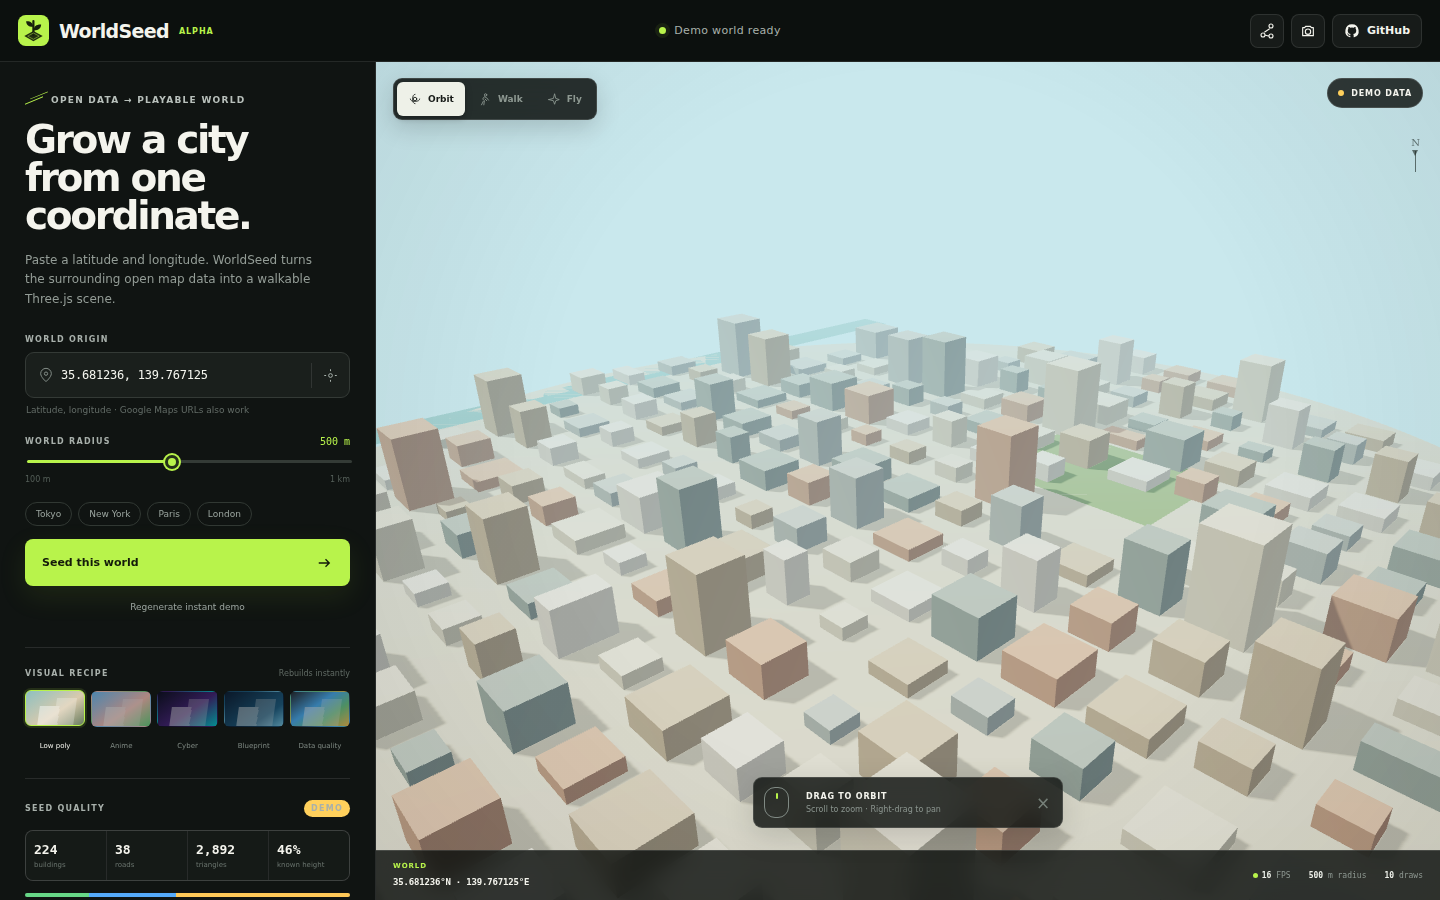
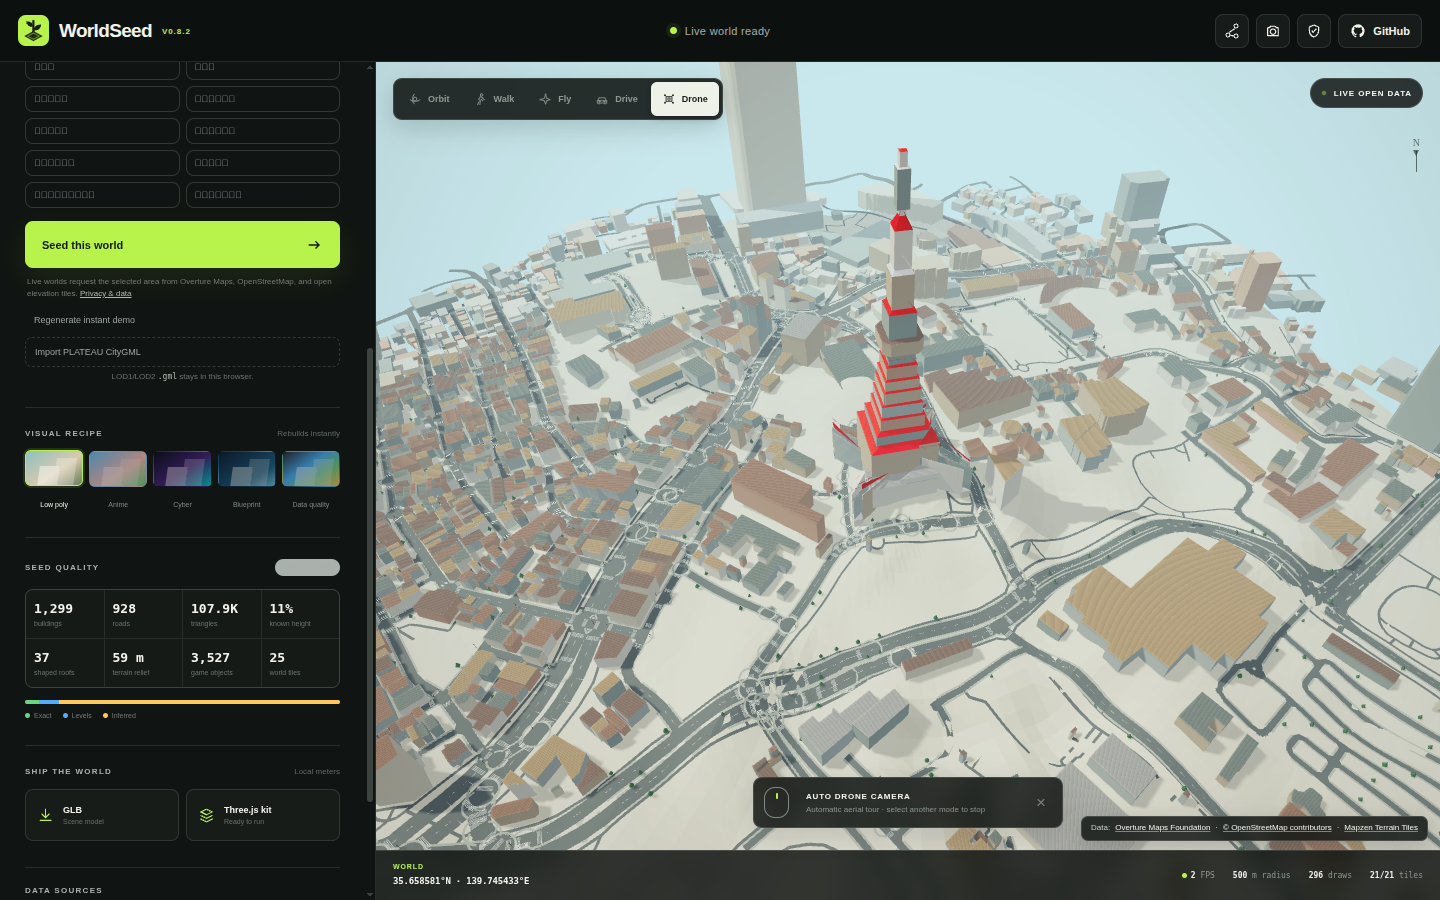
Use live Tokyo Tower capture in README
Replace the synthetic preview with a real production WebGL capture of the Tokyo Tower preset and label it as a live open-geospatial-data render.

diff --git a/README.md b/README.md
@@ -31,7 +31,9 @@ WorldSeed is an open-source bridge between public geospatial data and interactiv
 
 See [docs/REUSE.md](docs/REUSE.md) for concrete integration paths and export-file responsibilities.
 
-![WorldSeed generating a playable low-poly city](docs/worldseed-preview.png)
+![WorldSeed live Tokyo Tower world generated from open geospatial data](docs/worldseed-preview.png)
+
+*Live Tokyo Tower seed rendered by the production WebGL build from open geospatial data.*
 
 ## What works in v0.9.x — Interoperable City Export
 
